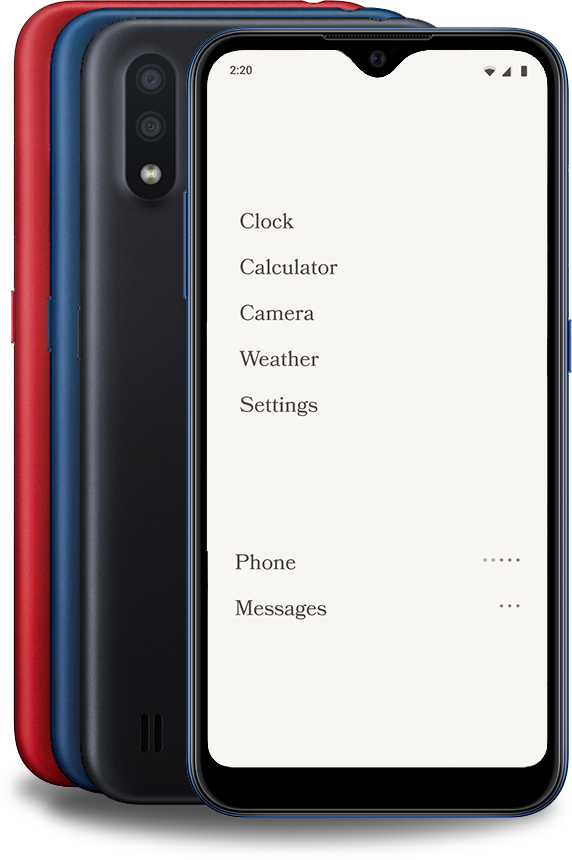
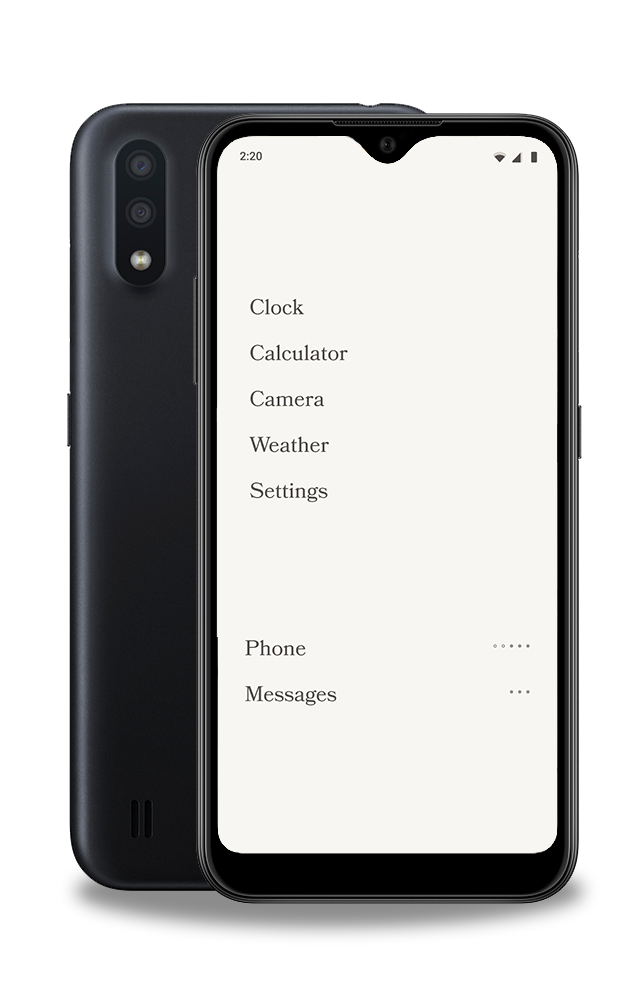
Update
- Remove color options
- Update image-sizing
- Align form elements to the top of their div

diff --git a/index.html b/index.html
@@ -97,13 +97,13 @@ height="0" width="0" style="display:none; visibility:hidden"></iframe></noscript
               <span aria-hidden="true">&times;</span>
             </button>
           </div>
-          <div class="modal-body d-flex align-items-center">
+          <div class="modal-body d-flex align-items-start">
             <div class="d-none d-sm-block col-5 p-0"><img src="https://static.toiimg.com/thumb/msid-69219502,width-220,resizemode-4,imgv-5/Google-Pixel-4-XL.jpg" alt="" class="card-img off"></div>
             <div class="col">
 
               <input id="deviceName" type="hidden" name="device" value="Google_Pixel_4">
-                <h5>Colors</h5>
-                <div class="form-row text-center align-items-center justify-content-between color-options">
+                <h5 class="d-none">Colors</h5>
+                <div class="d-none form-row text-center align-items-center justify-content-between color-options">
 
                 </div>
                 <div class="my-4 spacer"></div>

diff --git a/js/index.js b/js/index.js
@@ -20,7 +20,7 @@ var device1 = new Device("Google", "Pixel 4", [64], [999], ["black"], "small", "
 devices.push(device1);
 var device2 = new Device("Samsung", "Galaxy A20", [32], [349], ["black"], "large", "images/devices/GalaxyA20.png", "SGA20");
 devices.push(device2);
-var device3 = new Device("Samsung", "Galaxy A01", [16], [249], ["black", "red", "blue"], "small", "images/devices/GalaxyA01.png", "SGA01");
+var device3 = new Device("Samsung", "Galaxy A01", [16], [249], ["black"], "small", "images/devices/GalaxyA01.png", "SGA01");
 devices.push(device3);
 var device4 = new Device("Nick's Brand","Super Phone",[8, 256],[100,699],["white","black"],"large","images/devices/demo.png","demo");
 devices.push(device4);
